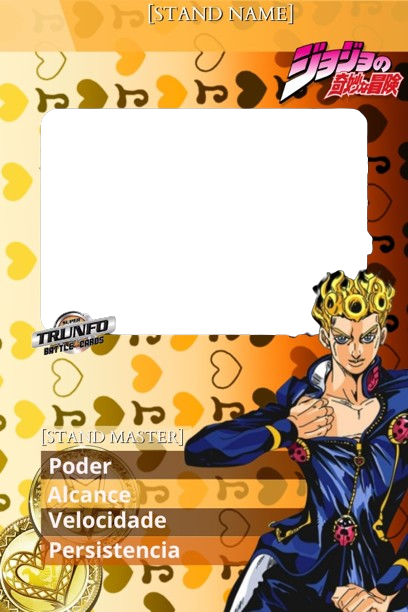
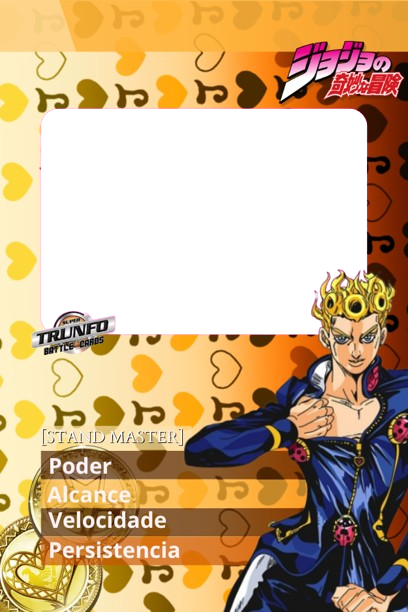
Troquei as carta arrumei nome

diff --git a/include/pesquisaDeCartas.h b/include/pesquisaDeCartas.h
@@ -36,15 +36,16 @@ void listarCartaNoGerenciamento(Estande estande, Texture2D *Carta, bool *blockCa
     if (estande.super == 1)
     {
         cor = GOLD;
+        DrawTextEx(fonte, estande.nome, (Vector2){posX + 52, posY + 5}, 17, 0, WHITE);
     }else{
         cor = WHITE;
+        DrawTextEx(fonte, estande.nome, (Vector2){posX + 52, posY + 3}, 23, 0, WHITE);
     }
 
     DrawTextEx(fonte, TextFormat("%d", estande.poderDestrutivo), (Vector2){posX + 123, posY + 274}, 20, 0, cor);
     DrawTextEx(fonte, TextFormat("%d", estande.velocidade), (Vector2){posX + 123, posY + 292}, 20, 0, cor);
     DrawTextEx(fonte, TextFormat("%d", estande.alcance), (Vector2){posX + 123, posY + 309}, 20, 0, cor);
     DrawTextEx(fonte, TextFormat("%d", estande.persistenciaDePoder), (Vector2){posX + 123, posY + 327}, 20, 0, cor);
-    DrawTextEx(fonte, estande.nome, (Vector2){posX + 47, posY + 12}, 20, 0, cor);
     DrawTextEx(fonte, TextFormat("%c%d", estande.letra, estande.numero), (Vector2){posX +5, posY - 2}, 33, 0, cor);
     
 }
